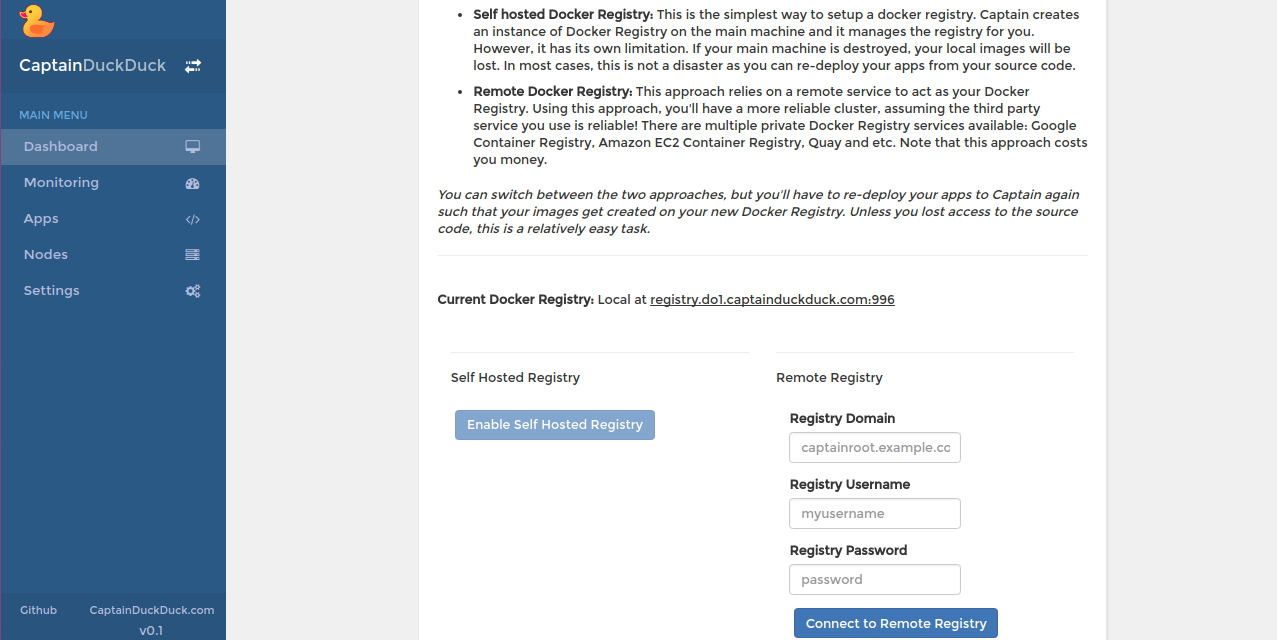
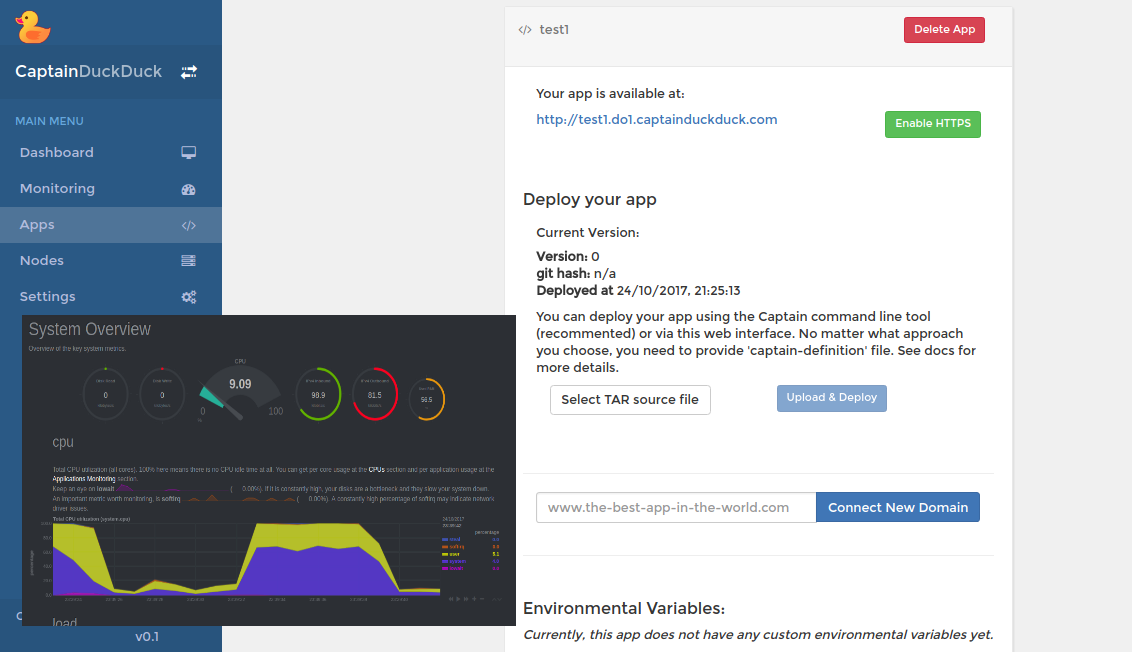
screenshot changed

diff --git a/README.md b/README.md
@@ -1,7 +1,5 @@
 <p align="center">
-  <a href="https://github.com/githubsaturn/captainduckduck">
     <img alt="CaptainDuckDuck" src="https://raw.githubusercontent.com/githubsaturn/captainduckduck/master/icon.png" width="300"/>
-  </a>
 </p>
 
 <p align="center">
